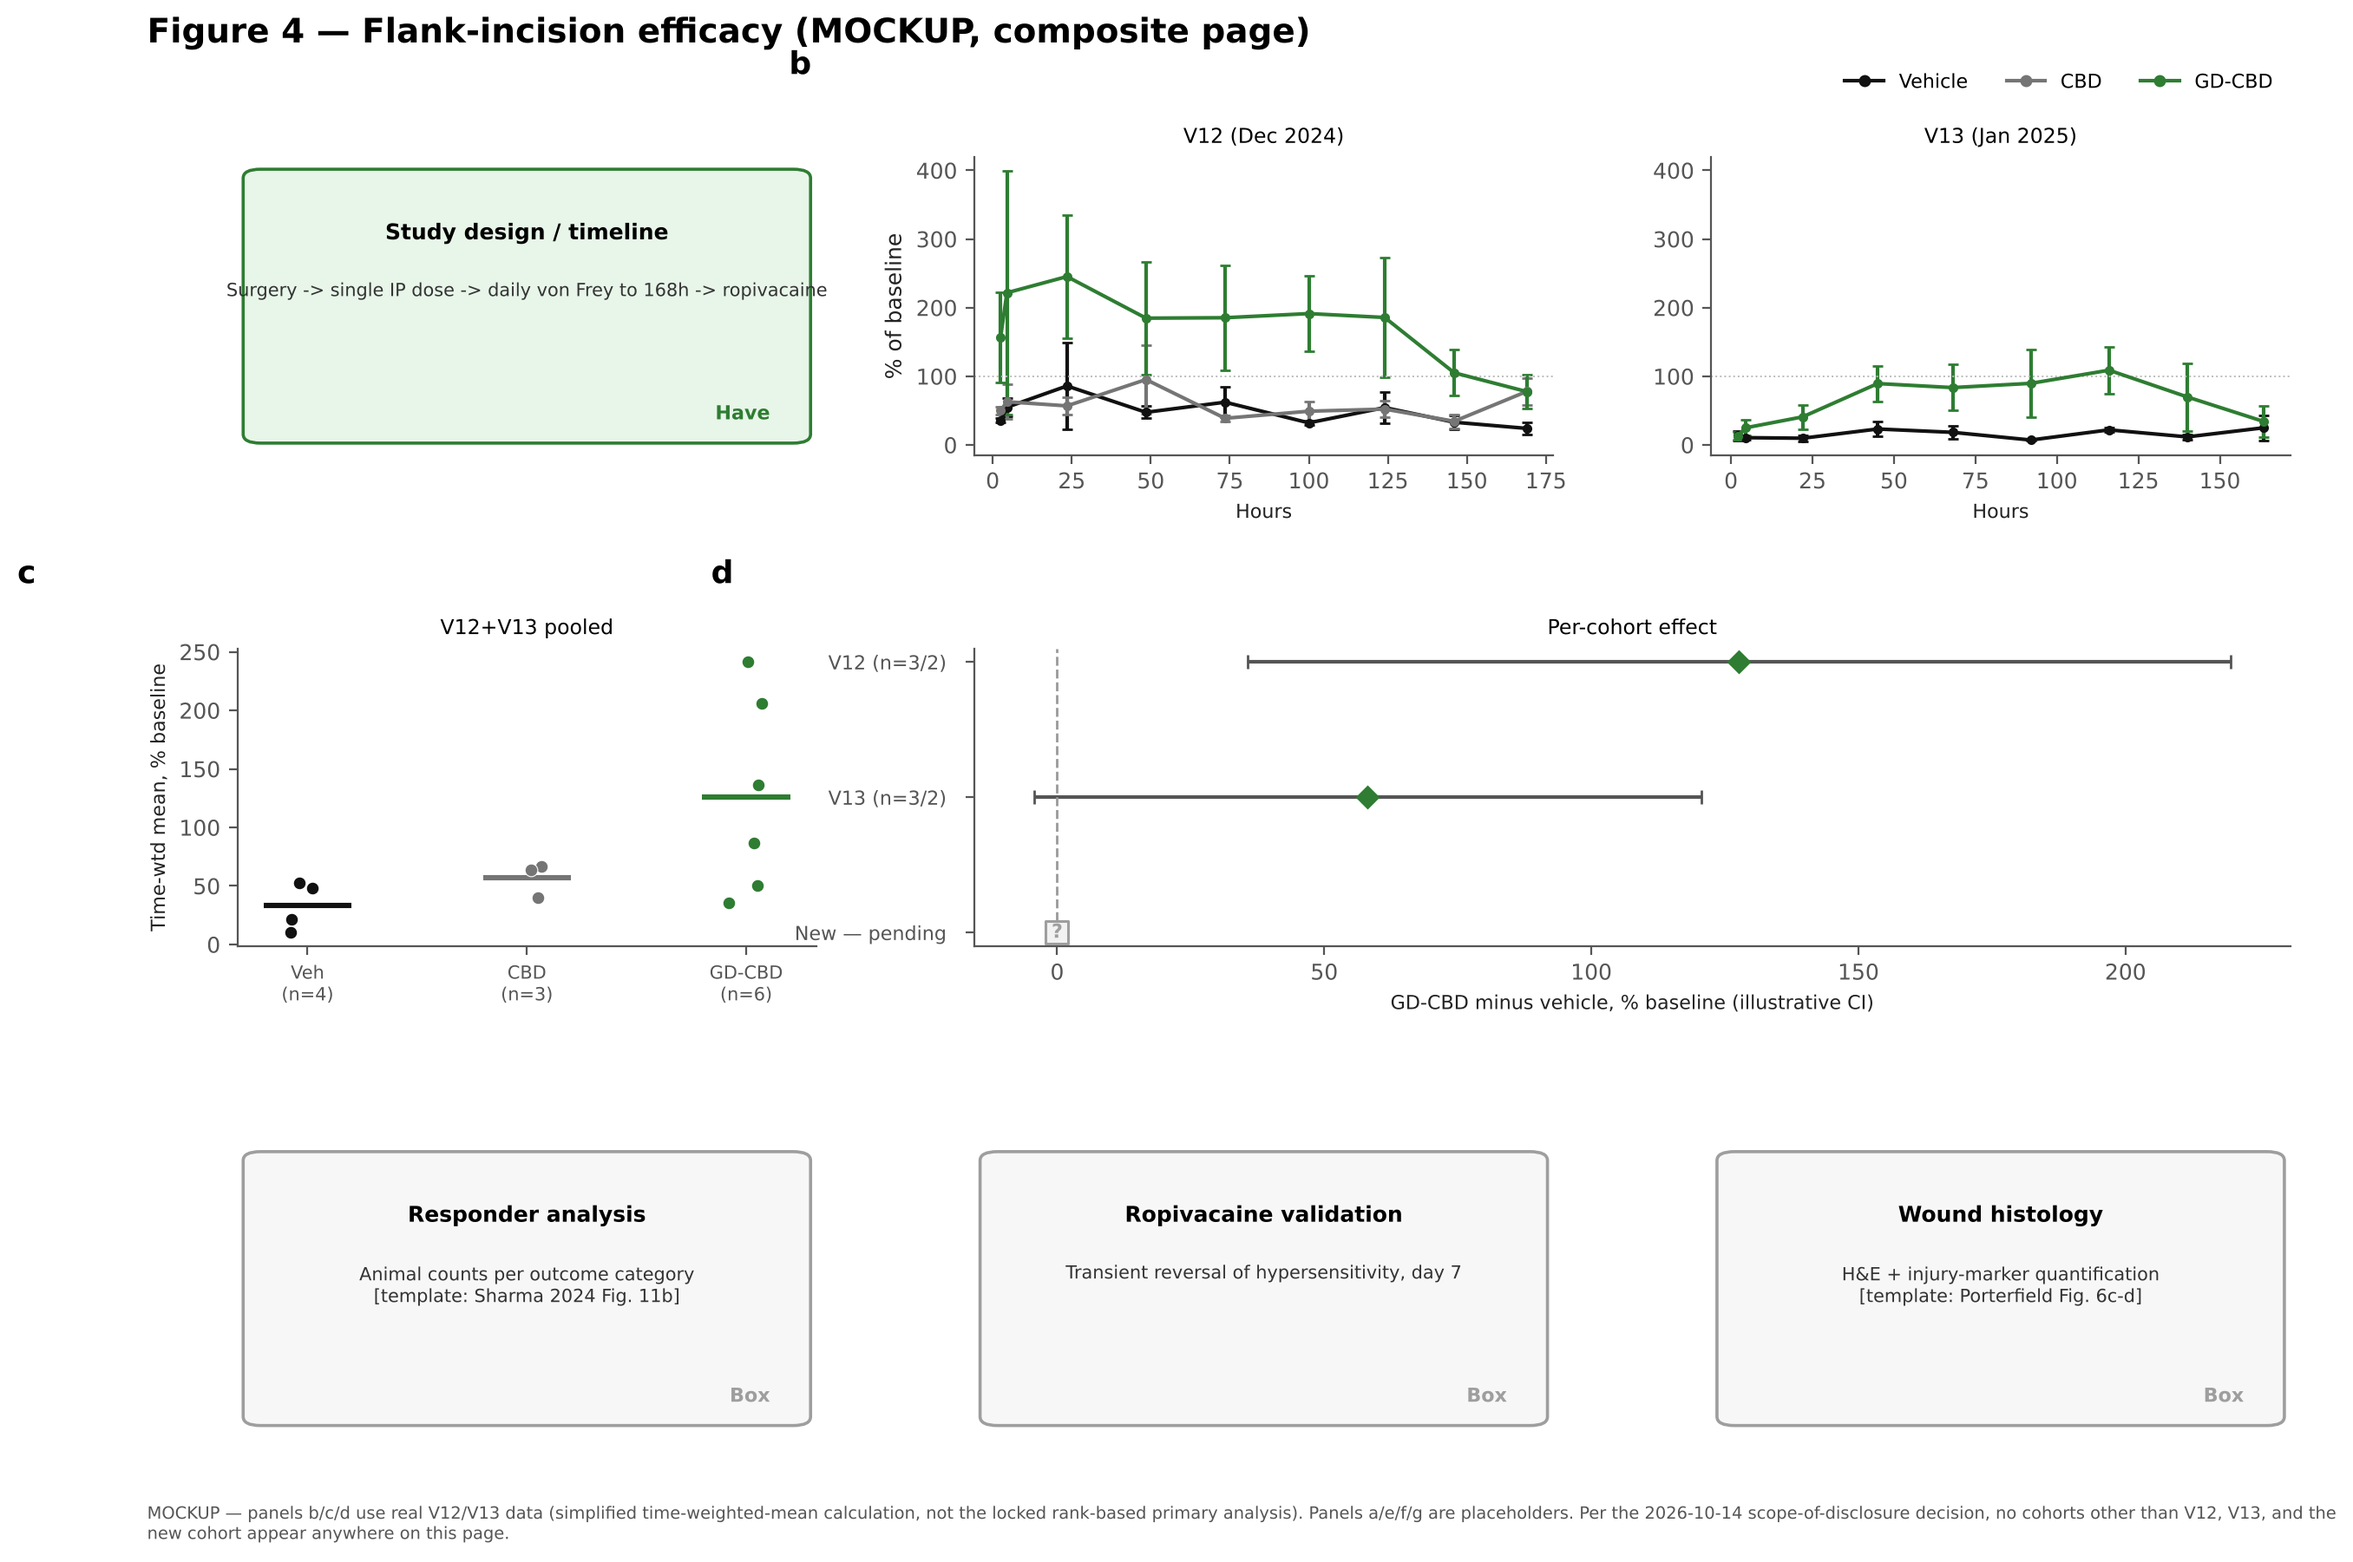
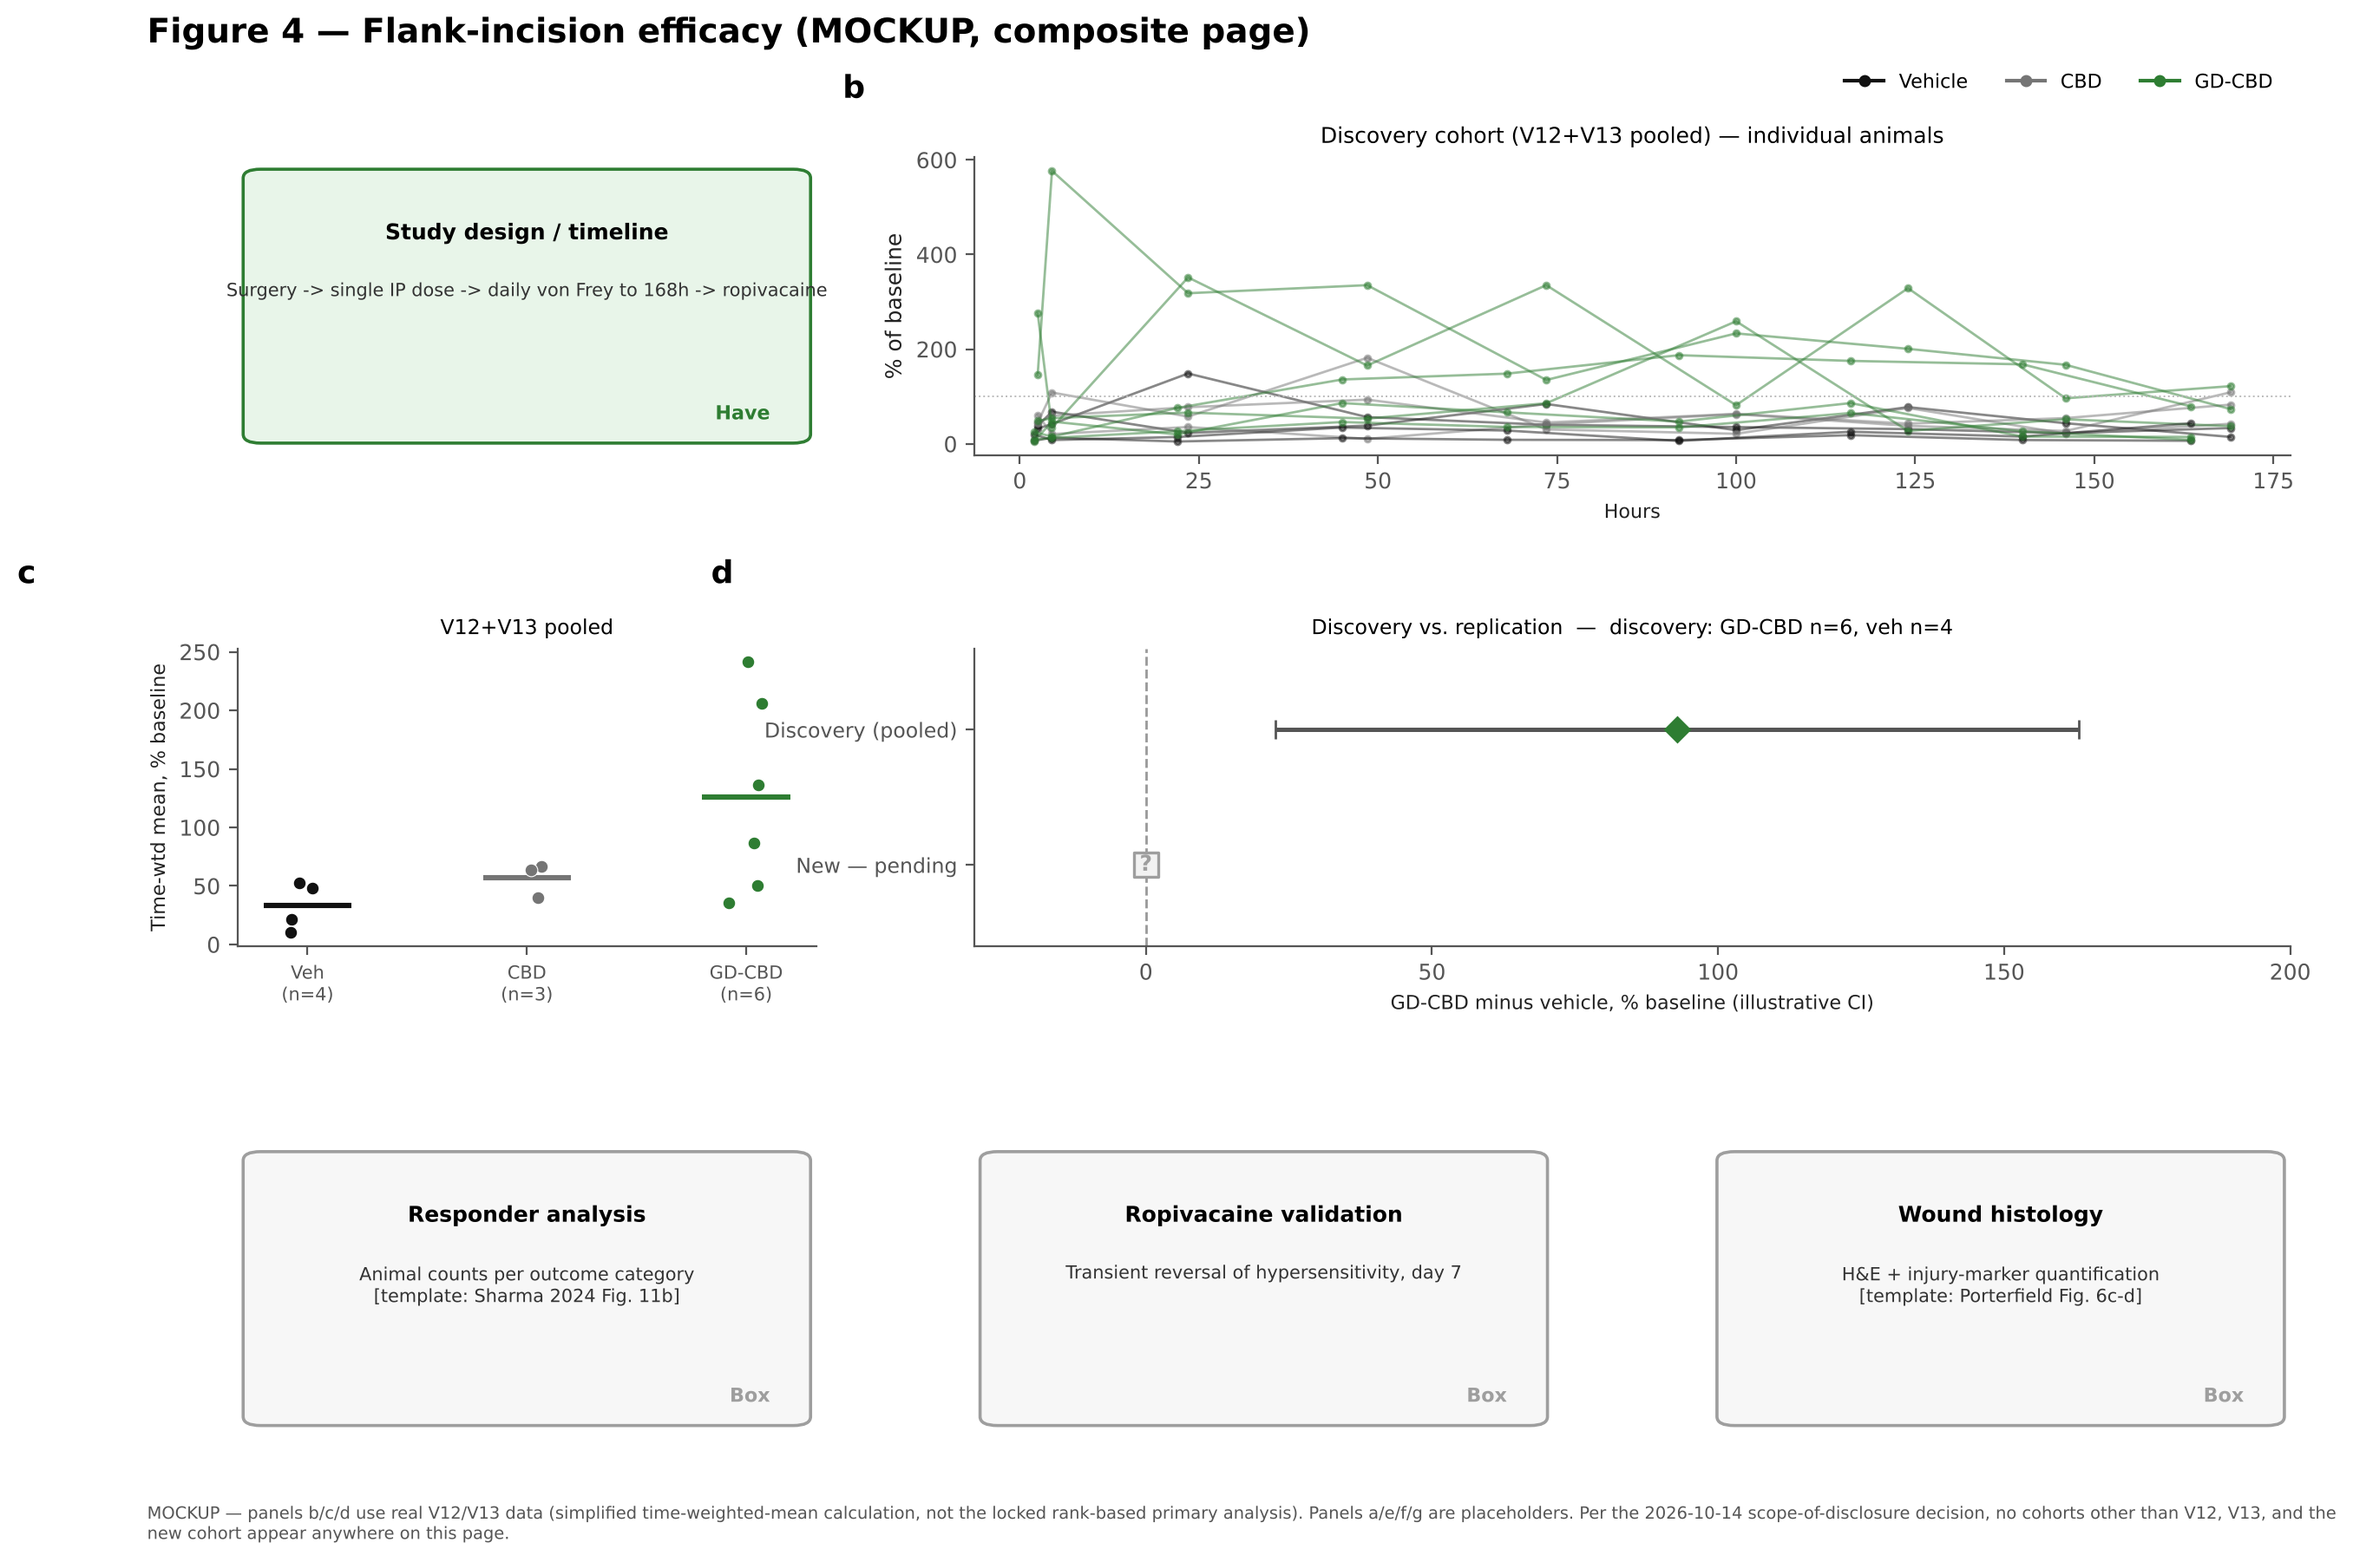
Pool V12+V13 as one discovery cohort, not two separate rows
User call: V12 and V13 are the same preparation (Batch 1), so splitting
them into separate forest-plot rows implied a replication claim that
isn't really there. Matches the plan's own replication-test framing
(new/independent preparation vs. the discovery data), which was never
about V13 replicating V12 specifically.

Panel b: individual-animal trajectories, pooled, not binned to a false
shared timeline (V12 and V13 used different von Frey sampling hours).
Panel d: two rows (Discovery pooled, New cohort pending) instead of
three. Fixed a second label-overlap bug along the way - long two-line
y-tick labels were rendering inside the plot area; replaced with short
labels and moved the n= detail into the panel title.

Claude-Session: https://claude.ai/code/session_01QzWRSRZ9CNkGodGiMwM5wp

diff --git a/figures/mockups/build_fig4_composite.py b/figures/mockups/build_fig4_composite.py
@@ -91,24 +91,25 @@ gs = GridSpec(3, 6, figure=fig, hspace=0.65, wspace=0.75, top=0.90, bottom=0.08,
 ax_a = fig.add_subplot(gs[0, 0:2])
 box_panel(ax_a, "a", "Study design / timeline", "Surgery -> single IP dose -> daily von Frey to 168h -> ropivacaine", "Have")
 
-# Panels b: time course (V12, V13), spans the rest of row 0
-ax_b1 = fig.add_subplot(gs[0, 2:4])
-ax_b2 = fig.add_subplot(gs[0, 4:6], sharey=ax_b1)
-for ax, cohort in zip([ax_b1, ax_b2], COHORT_ORDER):
+# Panel b: time course, V12+V13 treated as one discovery cohort (same preparation,
+# Batch 1). Individual animal trajectories shown, not binned to a common timepoint
+# grid - V12 and V13 used different von Frey sampling hours, and fabricating a
+# shared timeline would overstate precision. No per-cohort distinction drawn.
+ax_b = fig.add_subplot(gs[0, 2:6])
+for cohort in COHORT_ORDER:
     arms = DATA[cohort]
     for arm in ARM_ORDER:
         if arm not in arms:
             continue
         baselines, hours, values = arms[arm]
-        pct = np.array(pct_baseline(baselines, values))
-        mean = pct.mean(axis=0)
-        sem = pct.std(axis=0, ddof=1) / np.sqrt(pct.shape[0]) if pct.shape[0] > 1 else np.zeros_like(mean)
-        ax.errorbar(hours, mean, yerr=sem, color=COLOR[arm], marker="o", markersize=3, linewidth=1.5, capsize=2, label=arm)
-    ax.axhline(100, color="#bbbbbb", linewidth=0.7, linestyle=":")
-    ax.set_title(cohort, fontsize=8.5)
-    ax.set_xlabel("Hours", fontsize=8)
-ax_b1.set_ylabel("% of baseline")
-ax_b1.text(-0.32, 1.28, "b", transform=ax_b1.transAxes, fontsize=13, fontweight="bold")
+        pct = pct_baseline(baselines, values)
+        for animal in pct:
+            ax_b.plot(hours, animal, color=COLOR[arm], linewidth=1.0, alpha=0.5, marker="o", markersize=2.5)
+ax_b.axhline(100, color="#bbbbbb", linewidth=0.7, linestyle=":")
+ax_b.set_title("Discovery cohort (V12+V13 pooled) — individual animals", fontsize=9)
+ax_b.set_xlabel("Hours", fontsize=8)
+ax_b.set_ylabel("% of baseline")
+ax_b.text(-0.1, 1.2, "b", transform=ax_b.transAxes, fontsize=13, fontweight="bold")
 handles = [Line2D([0], [0], color=COLOR[a], marker="o", markersize=4, label=a) for a in ARM_ORDER]
 fig.legend(handles=handles, loc="upper right", ncol=3, frameon=False, fontsize=8, bbox_to_anchor=(0.97, 0.965))
 
@@ -134,30 +135,29 @@ ax_c.set_ylabel("Time-wtd mean, % baseline", fontsize=8)
 ax_c.set_title("V12+V13 pooled", fontsize=8.5)
 ax_c.text(-0.38, 1.22, "c", transform=ax_c.transAxes, fontsize=13, fontweight="bold")
 
-# Panel d: forest plot
+# Panel d: effect size, discovery (pooled) vs new cohort (pending) — two rows,
+# matching the plan's actual replication test (new/independent preparation vs
+# the discovery data), not a per-cohort breakdown of V12 vs V13.
 ax_d = fig.add_subplot(gs[1, 2:6])
-rows = []
+gd_vals_all, ve_vals_all = [], []
 for cohort in COHORT_ORDER:
     b_gd, h_gd, v_gd = DATA[cohort]["GD-CBD"]
     b_ve, h_ve, v_ve = DATA[cohort]["Vehicle"]
-    gd_vals = time_weighted_mean_pct(h_gd, pct_baseline(b_gd, v_gd))
-    ve_vals = time_weighted_mean_pct(h_ve, pct_baseline(b_ve, v_ve))
-    diff = np.mean(gd_vals) - np.mean(ve_vals)
-    se = np.sqrt(np.var(gd_vals, ddof=1) / len(gd_vals) + np.var(ve_vals, ddof=1) / len(ve_vals))
-    rows.append((cohort, diff, se, len(gd_vals), len(ve_vals)))
-rows = rows[::-1]
-y = np.arange(len(rows) + 1)
-diffs = [r[1] for r in rows]; ses = [r[2] for r in rows]
-short_name = {"V12 (Dec 2024)": "V12", "V13 (Jan 2025)": "V13"}
-labels = [f"{short_name.get(r[0], r[0])} (n={r[3]}/{r[4]})" for r in rows]
-ax_d.errorbar(diffs, y[1:], xerr=[1.96 * s for s in ses], fmt="D", color="#2E7D32", markersize=6, capsize=3, linewidth=1.5, ecolor="#555555")
-ax_d.scatter([0], [0], marker="s", s=90, facecolor="#f2f2f2", edgecolor="#9E9E9E", linewidth=1.1, zorder=3)
-ax_d.text(0, 0, "?", ha="center", va="center", fontsize=8, color="#9E9E9E", fontweight="bold")
+    gd_vals_all.extend(time_weighted_mean_pct(h_gd, pct_baseline(b_gd, v_gd)))
+    ve_vals_all.extend(time_weighted_mean_pct(h_ve, pct_baseline(b_ve, v_ve)))
+diff = np.mean(gd_vals_all) - np.mean(ve_vals_all)
+se = np.sqrt(np.var(gd_vals_all, ddof=1) / len(gd_vals_all) + np.var(ve_vals_all, ddof=1) / len(ve_vals_all))
+
+ax_d.errorbar([diff], [1], xerr=[1.96 * se], fmt="D", color="#2E7D32", markersize=7, capsize=4, linewidth=1.8, ecolor="#555555")
+ax_d.scatter([0], [0], marker="s", s=100, facecolor="#f2f2f2", edgecolor="#9E9E9E", linewidth=1.2, zorder=3)
+ax_d.text(0, 0, "?", ha="center", va="center", fontsize=9, color="#9E9E9E", fontweight="bold")
 ax_d.axvline(0, color="#999999", linewidth=1, linestyle="--")
-ax_d.set_yticks(list(y)); ax_d.set_yticklabels(["New — pending"] + labels, fontsize=8)
-ax_d.tick_params(axis="y", pad=8)
+ax_d.set_xlim(-30, 200)
+ax_d.set_ylim(-0.6, 1.6)
+ax_d.set_yticks([0, 1])
+ax_d.set_yticklabels(["New — pending", "Discovery (pooled)"], fontsize=8.5)
 ax_d.set_xlabel("GD-CBD minus vehicle, % baseline (illustrative CI)", fontsize=8)
-ax_d.set_title("Per-cohort effect", fontsize=8.5)
+ax_d.set_title(f"Discovery vs. replication  —  discovery: GD-CBD n={len(gd_vals_all)}, veh n={len(ve_vals_all)}", fontsize=8.5)
 ax_d.text(-0.2, 1.22, "d", transform=ax_d.transAxes, fontsize=13, fontweight="bold")
 
 # Panels e, f, g: boxes
